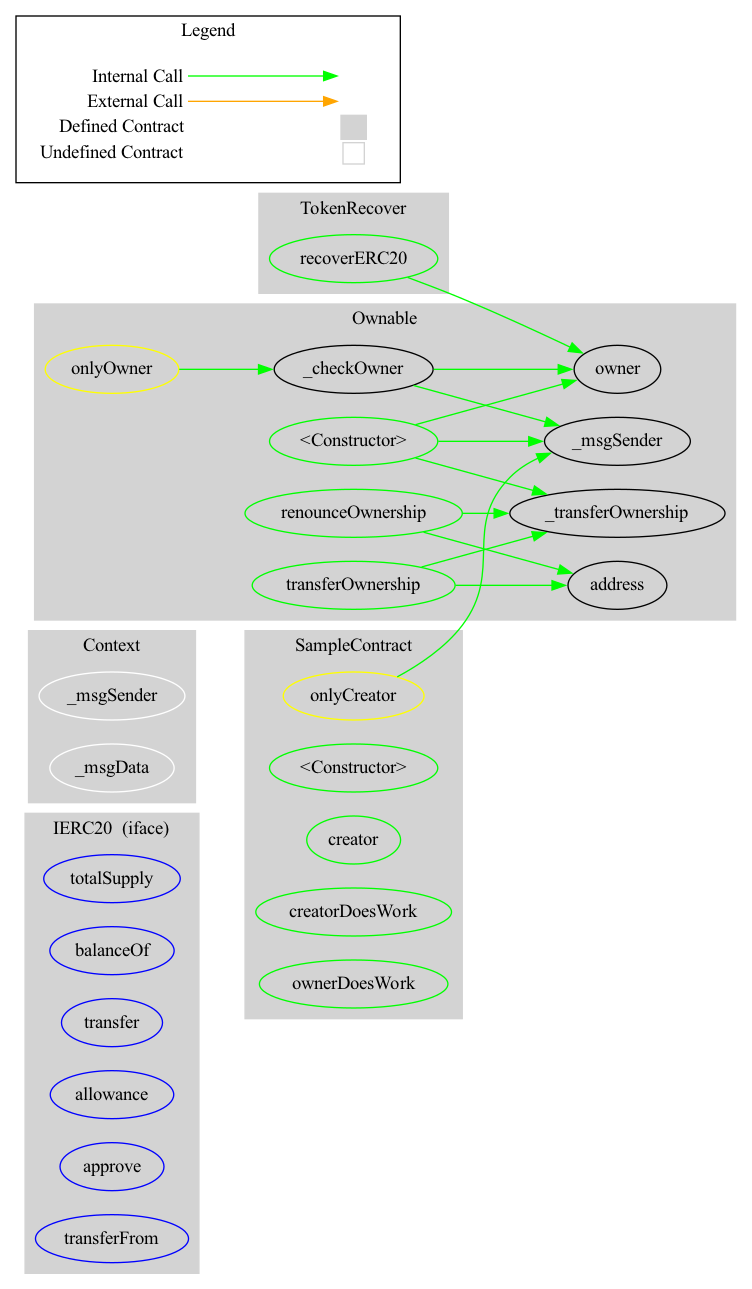
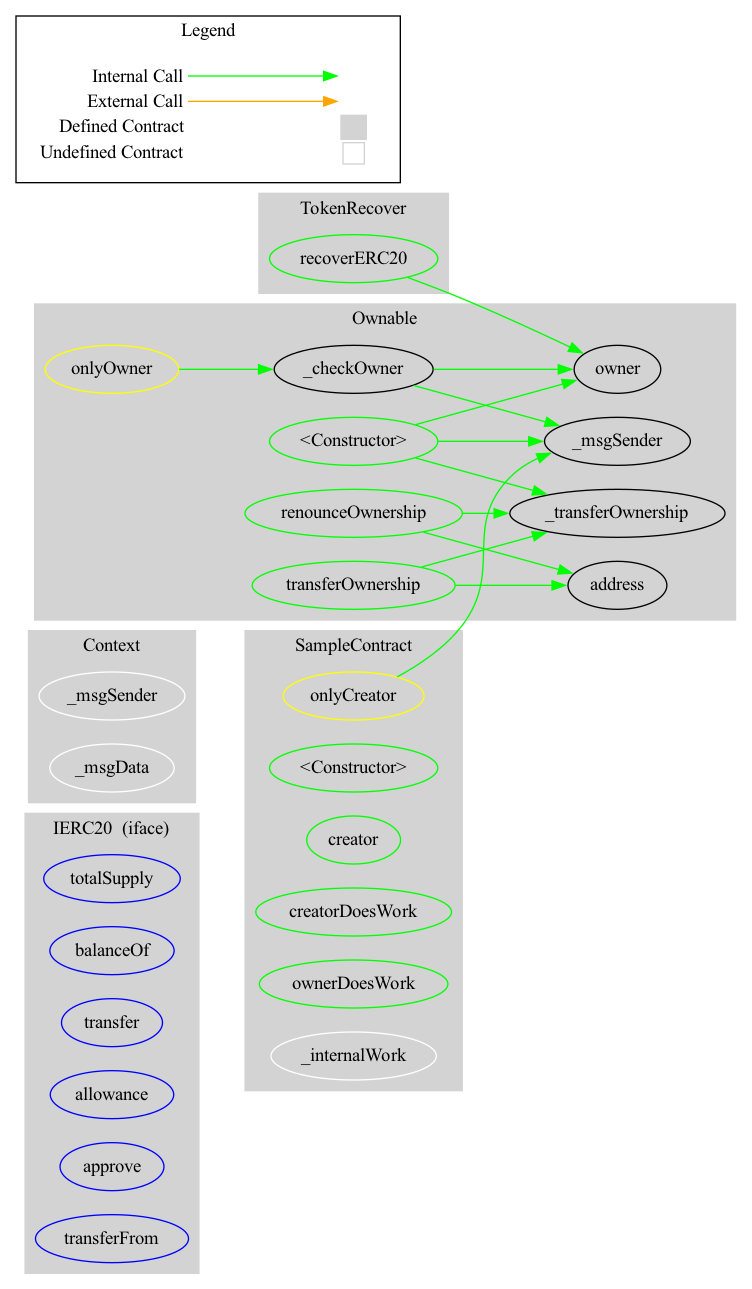
feat: run analysis tool

Changed region(s): [[0.3059, 0.7758, 0.6423, 0.8689]]

diff --git a/analysis/description-table/SampleContract.md b/analysis/description-table/SampleContract.md
@@ -5,7 +5,7 @@
 
 |  File Name  |  SHA-1 Hash  |
 |-------------|--------------|
-| dist/SampleContract.dist.sol | 8843ace820f019e22c98636637a6bcd691486b53 |
+| dist/SampleContract.dist.sol | bb05a55c5010fa1ea1ca8a64494775b5ba3d7b78 |
 
 
 ### Contracts Description Table
@@ -43,6 +43,7 @@
 | └ | creator | Public ❗ |   |NO❗ |
 | └ | creatorDoesWork | Public ❗ | 🛑  | onlyCreator |
 | └ | ownerDoesWork | Public ❗ | 🛑  | onlyOwner |
+| └ | _internalWork | Internal 🔒 | 🛑  | |
 
 
 ### Legend
